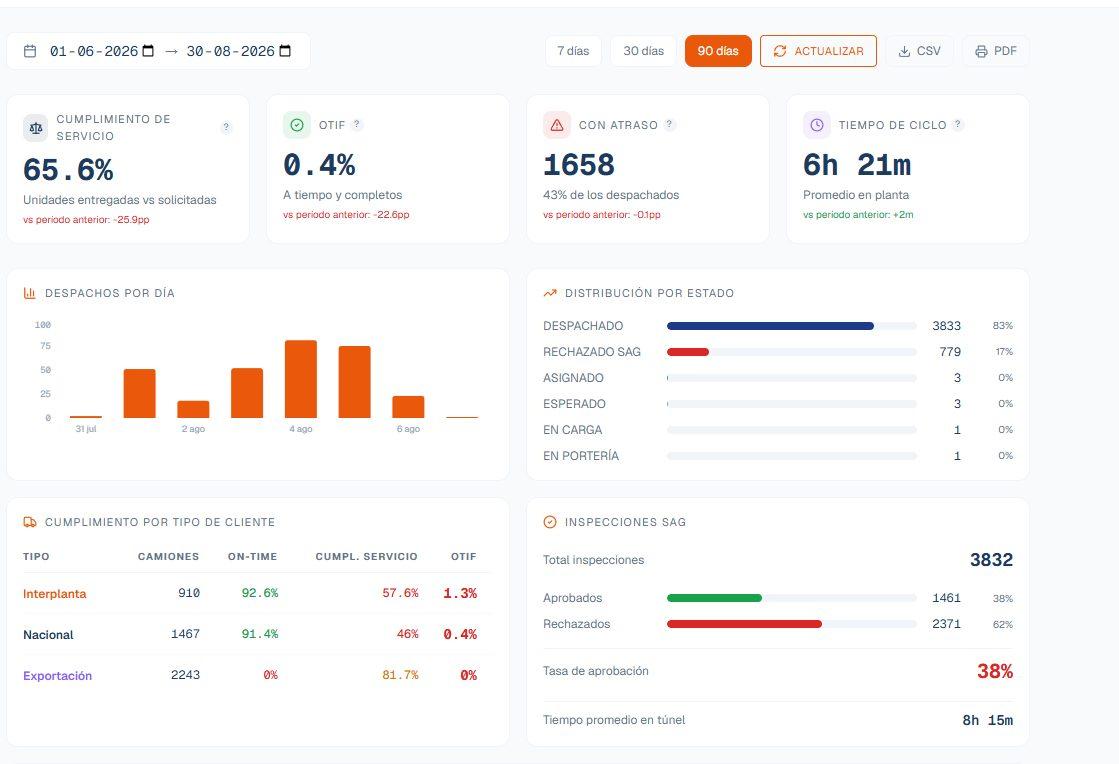
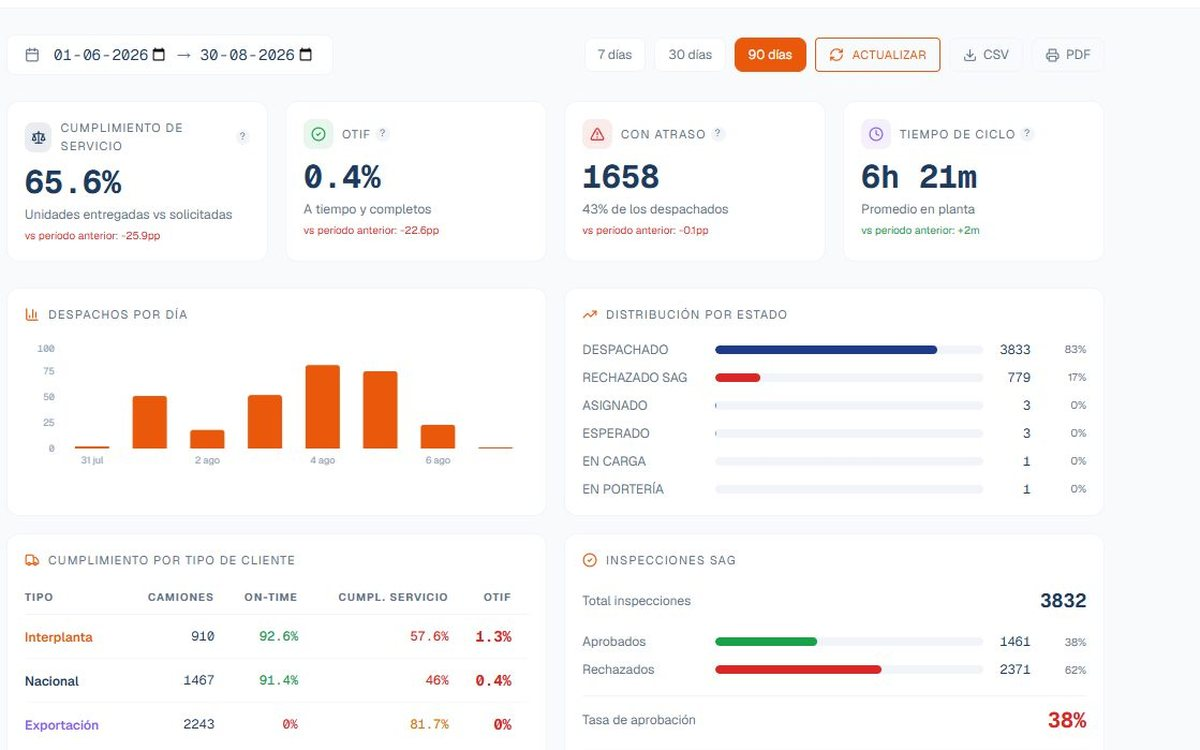
Normalise project screenshots and calm the visual noise
- All 15 screenshots re-rendered at 1200x750 (16:10) so every card
  shows a consistent preview. Wide shots are anchored left to keep
  the app's sidebar; the one portrait shot is fitted onto a matching
  backdrop instead of being cropped to nothing.
- Section titles drop the orange gradient for plain text, so the
  orange now marks what actually matters: labels, tags and buttons.
- Removed the emoji per project card; the context label and the
  screenshot already identify each one.
- The particle background fades out past the hero, so it reads as an
  entrance rather than noise behind every section.
- Added a visible keyboard focus ring.

Claude-Session: https://claude.ai/code/session_01Wc1MAj2CdHJPRHHg7hzeZH

diff --git a/src/components/Projects.jsx b/src/components/Projects.jsx
@@ -3,7 +3,6 @@ import t from '../i18n'
 
 const PROJECTS = [
   {
-    icon: '🚛',
     github: 'https://github.com/CristianSotoAlvarez/AvanceSeminario---Cristian-Soto',
     demo: null,
     featured: true,
@@ -26,7 +25,6 @@ const PROJECTS = [
     tags: ['NestJS', 'Next.js', 'Prisma', 'PostgreSQL', 'Socket.IO', 'Docker', 'Python'],
   },
   {
-    icon: '💪',
     github: null,
     demo: 'https://cris-fness.vercel.app/',
     images: [
@@ -47,7 +45,6 @@ const PROJECTS = [
     tags: ['Astro', 'JavaScript', 'CSS', 'Vercel', 'Formspree'],
   },
   {
-    icon: '🤖',
     github: 'https://github.com/CristianSotoAlvarez/dialogflow-cx-webchat',
     demo: null,
     images: ['/projects/chatbot-1.jpg'],
@@ -63,7 +60,6 @@ const PROJECTS = [
     tags: ['Dialogflow CX', 'JavaScript', 'HTML', 'CSS', 'Web Speech API'],
   },
   {
-    icon: '🍽',
     github: 'https://github.com/AlvaroCG20/Proyecto-Web-DiauloFood',
     demo: null,
     images: [
@@ -83,12 +79,11 @@ const PROJECTS = [
     tags: ['Ionic', 'Angular', 'TypeScript', 'SCSS'],
   },
   {
-    icon: '🏛',
     github: 'https://github.com/CristianSotoAlvarez/CristianSotoAlvarez-Proyecto_SIA_Registro_CivilFinal',
     demo: null,
     images: [
-      '/projects/registro-civil-1.png',
-      '/projects/registro-civil-2.png',
+      '/projects/registro-civil-1.jpg',
+      '/projects/registro-civil-2.jpg',
     ],
     eyebrow: { es: 'Proyecto universitario', en: 'University project' },
     name: {
@@ -200,7 +195,7 @@ function ProjectCard({ project, lang, tr, index }) {
       <ProjectImages images={project.images} alt={name} />
       <div className="project-card-body">
         <div className="project-card-top">
-          <span className="project-icon" aria-hidden="true">{project.icon}</span>
+          
           <div className="project-links">
             {project.github && (
               <a href={project.github} target="_blank" rel="noopener noreferrer" title={tr.codeLabel} aria-label={tr.codeLabel}>

diff --git a/src/index.css b/src/index.css
@@ -111,10 +111,7 @@ img {
   font-weight: 700;
   letter-spacing: -0.03em;
   margin-bottom: 10px;
-  background: var(--gradient-text);
-  -webkit-background-clip: text;
-  -webkit-text-fill-color: transparent;
-  background-clip: text;
+  color: var(--text);
 }
 
 .section-subtitle {
@@ -816,6 +813,7 @@ img {
 
   .project-card.featured .project-screenshot {
     height: 100%;
+    aspect-ratio: auto;
     min-height: 380px;
     object-fit: cover;
     object-position: left top;
@@ -918,9 +916,10 @@ img {
 
 .project-screenshot {
   width: 100%;
-  height: 220px;
+  aspect-ratio: 16 / 10;
+  height: auto;
   object-fit: cover;
-  object-position: top center;
+  object-position: left top;
   display: block;
   filter: brightness(0.96);
   transition: transform 0.5s cubic-bezier(0.4, 0, 0.2, 1), filter 0.4s ease;
@@ -1204,6 +1203,12 @@ img {
   outline: none;
   transition: border-color var(--transition);
   resize: none;
+}
+
+:focus-visible {
+  outline: 2px solid var(--orange);
+  outline-offset: 3px;
+  border-radius: 4px;
 }
 
 .form-group input:focus,

diff --git a/src/components/Background.jsx b/src/components/Background.jsx
@@ -186,13 +186,34 @@ export default function Background({ theme }) {
     }
   }, [theme])
 
+  // el fondo animado es la entrada del sitio: se desvanece al dejar el hero
+  useEffect(() => {
+    const canvas = canvasRef.current
+    if (!canvas) return
+    let ticking = false
+    const apply = () => {
+      const alto = window.innerHeight || 1
+      const o = Math.max(0, 1 - window.scrollY / (alto * 0.85))
+      canvas.style.opacity = String(o)
+      ticking = false
+    }
+    const onScroll = () => {
+      if (!ticking) { ticking = true; requestAnimationFrame(apply) }
+    }
+    apply()
+    window.addEventListener('scroll', onScroll, { passive: true })
+    return () => window.removeEventListener('scroll', onScroll)
+  }, [])
+
   return (
     <canvas
       ref={canvasRef}
+      aria-hidden="true"
       style={{
         position: 'fixed', top: 0, left: 0,
         width: '100%', height: '100%',
         pointerEvents: 'none', zIndex: 0,
+        transition: 'opacity 0.3s linear',
       }}
     />
   )
